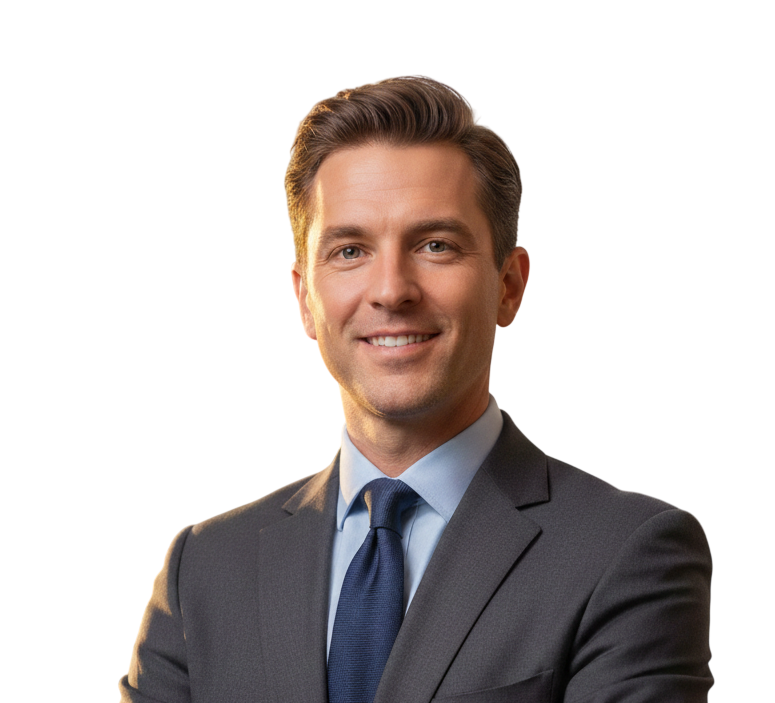
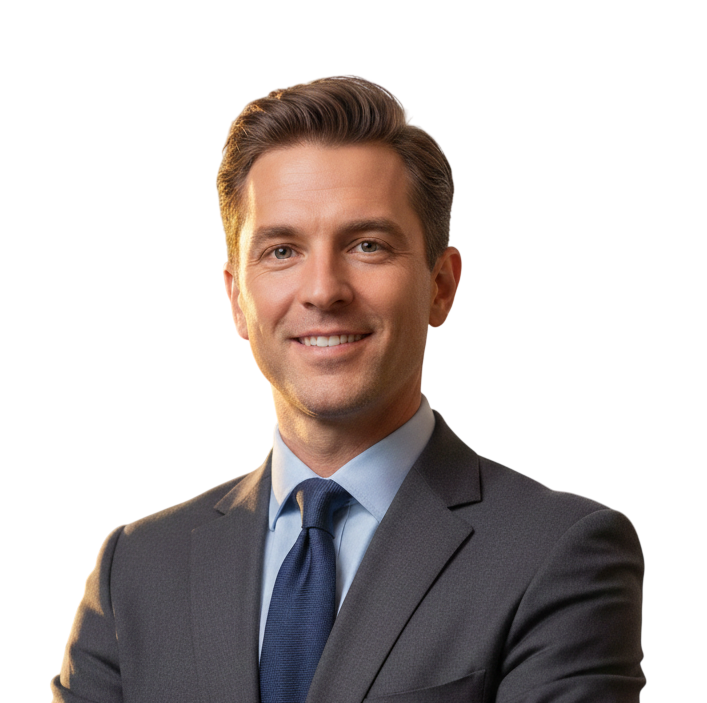
Changed phone number and team member roles

diff --git a/app/about/page.tsx b/app/about/page.tsx
@@ -2,6 +2,7 @@
 import Image from 'next/image';
 import type { Metadata } from 'next';
 import OurStory from './OurStory';
+import Link from 'next/link';
 
 export const metadata: Metadata = {
   title: 'About Us - Kodac Solutions | Young, Passionate Digital Experts',
@@ -13,14 +14,14 @@ export default function AboutPage() {
   const teamMembers = [
     {
       name: 'Alex Johnson',
-      role: 'Owner',
+      role: 'CEO',
       image: '/team/alex.png',
       expertise: 'Investment, Financial Oversight, Long-term Vision',
       description: 'As the principal investor behind our agency, Alex provides the financial foundation and long-term vision that fuels our growth. His commitment ensures the team has the resources and stability to innovate and deliver exceptional digital services.',
     },
     {
       name: 'Frasat Ahmad',
-      role: 'CEO',
+      role: 'Project Manager',
       image: '/team/frasat.png',
       expertise: 'Strategic Planning, Business Development, Client Relations',
       description: 'With a vision to revolutionize digital services, Frasat leads our team with passion and innovative thinking. His expertise in strategic planning ensures every project aligns with client goals.',
@@ -61,7 +62,7 @@ export default function AboutPage() {
       <section className="pb-20 pt-28 px-4 sm:px-6 lg:px-8 bg-gradient-to-br from-red-50 to-purple-50">
         <div className="max-w-360 mx-auto text-center">
           <h1 className="text-5xl lg:text-6xl font-bold text-gray-900 mb-6">
-            About <span className="text-red-500">Kodac Solutions</span>
+            About <span className="bg-gradient-to-r from-[#F33641] to-[#9C45FE] bg-clip-text text-transparent">Kodac</span> <span className='text-red-500'>Solutions</span>
           </h1>
           <p className="text-xl text-gray-600 max-w-3xl mx-auto">
             A young, energetic team of passionate digital experts dedicated to transforming businesses through modern, innovative solutions.
@@ -179,12 +180,12 @@ export default function AboutPage() {
           <p className="text-xl mb-8">
             Let's discuss how our passionate team can help transform your digital presence.
           </p>
-          <a
+          <Link
             href="/contact"
             className="inline-block bg-white text-red-500 px-8 py-4 rounded-lg font-semibold hover:bg-gray-100 transition-colors shadow-lg"
           >
             Get In Touch
-          </a>
+          </Link>
         </div>
       </section>
     </main>

diff --git a/app/about/OurStory.tsx b/app/about/OurStory.tsx
@@ -7,7 +7,7 @@ export default function OurStory() {
   return (
      <section className="py-20 px-4 sm:px-6 lg:px-8">
         <div className="max-w-360 mx-auto">
-          <div className="grid lg:grid-cols-2 lg:gap-0 gap-12 items-center">
+          <div className="grid lg:grid-cols-2 lg:gap-4 justify-items-center gap-12 items-center">
             <div className="space-y-6">
               <h2 className="text-4xl font-bold text-gray-900">Our Story</h2>
               <p className="text-lg text-gray-600 leading-relaxed">
@@ -18,7 +18,10 @@ export default function OurStory() {
               </p>
             </div>
 
-            <div className={`bg-black relative w-[283px] h-[200px] rounded-2xl overflow-hidden mx-auto shadow-2xl `}>
+            <div
+            className='w-full h-full flex justify-center items-center bg-gradient-to-br from-[#123A87] to-[#921B3C] rounded-2xl p-1'
+            >
+            <div className={`relative w-[283px] h-[200px] rounded-2xl overflow-hidden mx-auto`}>
               <Image
                 src="/kodac-banner.png"
                 alt="Kodac Solutions"
@@ -27,6 +30,7 @@ export default function OurStory() {
                 onLoadingComplete={()=>setLoaded(true)}
                 className={`object-cover ${loaded ? 'opacity-100' : 'opacity-0'} transition-opacity duration-1000`}
               />
+            </div>
             </div>
           </div>
         </div>

diff --git a/app/contact/page.tsx b/app/contact/page.tsx
@@ -109,8 +109,8 @@ export default function ContactPage() {
                   </div>
                   <div>
                     <h3 className="text-lg font-bold text-gray-900 mb-1">Phone</h3>
-                    <a href="tel:+16028928647" className="text-red-500 hover:text-red-600">
-                      +1 602 892 8647
+                    <a href="tel:+14804011817" className="text-red-500 hover:text-red-600">
+                      +1 480-401-1817
                     </a>
                   </div>
                 </div>

diff --git a/components/Footer.tsx b/components/Footer.tsx
@@ -85,8 +85,8 @@ export default function Footer() {
               </div>
               <div>
                 <p className="font-semibold text-white mb-1">PHONE:</p>
-                <a href="tel:+16028928647" className="hover:text-red-500 transition-colors">
-                  +1 602 892 8647
+                <a href="tel:+14804011817" className="hover:text-red-500 transition-colors">
+                  +1 480-401-1817
                 </a>
               </div>
             </div>
